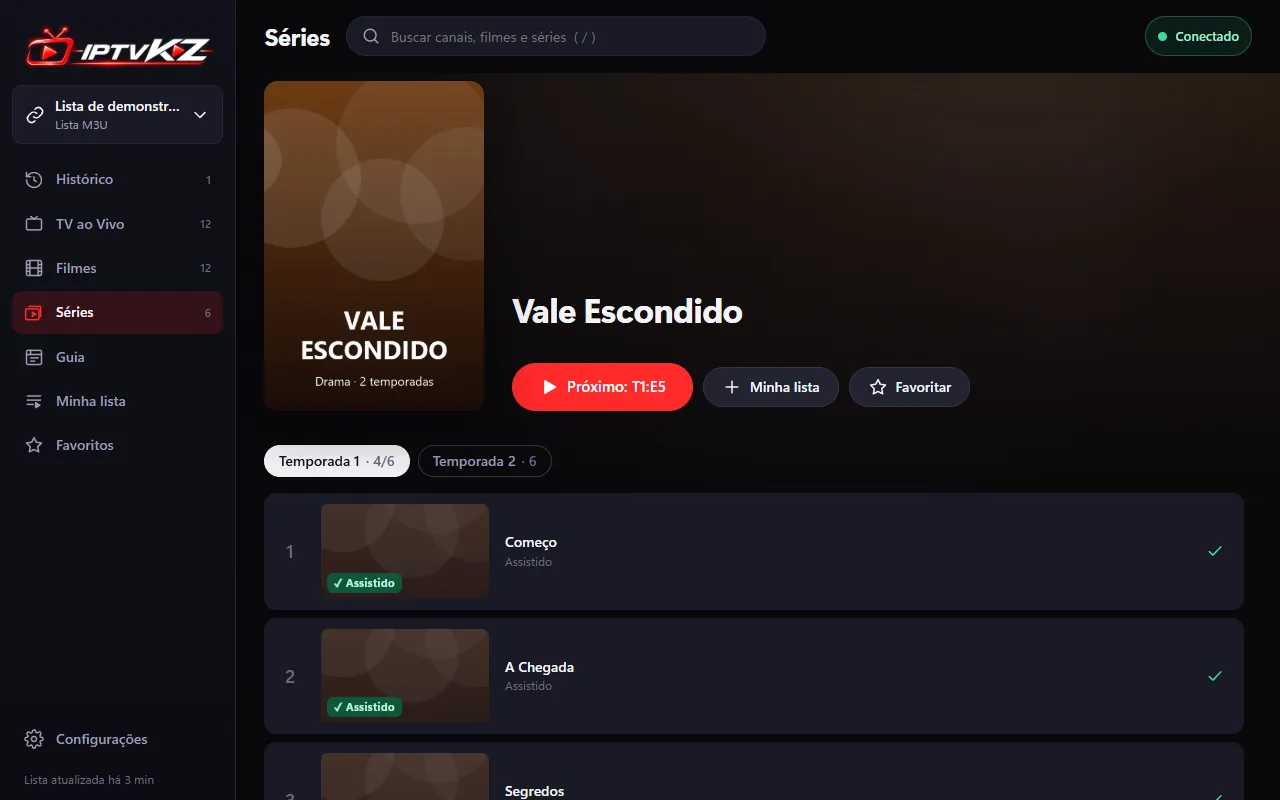
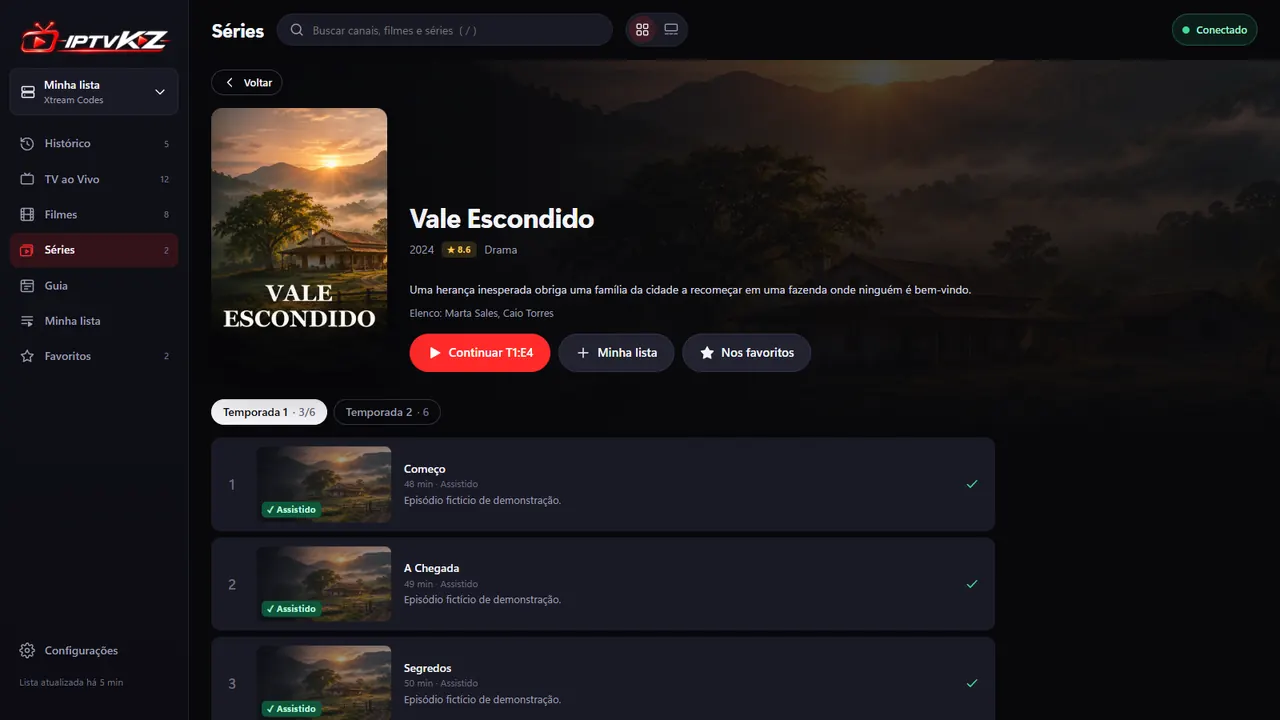
README: capturas novas com capas fictícias realistas
Imagem de destaque no topo e novas seções de QR Code e celular.

diff --git a/README.md b/README.md
@@ -26,6 +26,10 @@ Use suas listas M3U e Xtream Codes com TV ao vivo, guia de programação, filmes
   <a href="#rodar-pelo-código">Rodar pelo código</a>
 </p>
 
+<p align="center">
+  <img src="docs/screenshots/destaque-streaming.webp" alt="IPTVKZ na visualização Streaming, com um filme fictício em destaque e a fileira Continuar assistindo" />
+</p>
+
 ---
 
 > [!IMPORTANT]
@@ -33,22 +37,33 @@ Use suas listas M3U e Xtream Codes com TV ao vivo, guia de programação, filmes
 
 ## Capturas de tela
 
-As telas abaixo usam uma lista de demonstração com canais, filmes e séries fictícios.
+As telas abaixo são reais e usam uma lista de demonstração, com canais, filmes e séries fictícios. O app não vem com nenhum conteúdo.
+
+### Lista pelo QR Code
+
+Na TV, escaneie o código e preencha a lista no celular, sem digitar com o controle.
+
+<table>
+  <tr>
+    <td width="72%"><img src="docs/screenshots/tv-qr.webp" alt="TV mostrando a tela Adicionar lista com o QR Code" /><p align="center"><sub>A TV mostra o QR Code</sub></p></td>
+    <td><img src="docs/screenshots/celular-qr.webp" alt="Formulário no celular com o botão Enviar para a TV" /><p align="center"><sub>Você preenche no celular</sub></p></td>
+  </tr>
+</table>
 
 ### Computador
 
 <table>
   <tr>
-    <td width="50%"><img src="docs/screenshots/desktop-tv-ao-vivo.webp" alt="TV ao vivo com o player, o guia de agora e a seguir e a lista de canais" /><p align="center"><sub>TV ao vivo: player, agora/a seguir e lista para zapear</sub></p></td>
-    <td width="50%"><img src="docs/screenshots/desktop-filmes.webp" alt="Tela de filmes com Continuar assistindo e prateleiras por categoria" /><p align="center"><sub>Filmes: continuar assistindo e prateleiras</sub></p></td>
+    <td width="50%"><img src="docs/screenshots/desktop-streaming.webp" alt="Visualização Streaming com destaque grande e a fileira Continuar assistindo" /><p align="center"><sub>Visualização Streaming: destaque e fileiras</sub></p></td>
+    <td width="50%"><img src="docs/screenshots/desktop-classica.webp" alt="Visualização Clássica com a grade de filmes e categorias" /><p align="center"><sub>Visualização Clássica: grade e categorias</sub></p></td>
   </tr>
   <tr>
+    <td><img src="docs/screenshots/desktop-tv-ao-vivo.webp" alt="TV ao vivo com o player, o guia de agora e a seguir e a lista de canais" /><p align="center"><sub>TV ao vivo: player, agora/a seguir e lista para zapear</sub></p></td>
     <td><img src="docs/screenshots/desktop-serie.webp" alt="Página de uma série com temporadas e episódios assistidos" /><p align="center"><sub>Séries: temporadas, episódios e próximo episódio</sub></p></td>
-    <td><img src="docs/screenshots/desktop-player.webp" alt="Player de vídeo com barra de progresso e controles" /><p align="center"><sub>Player com áudio, legendas e PiP</sub></p></td>
   </tr>
   <tr>
-    <td><img src="docs/screenshots/desktop-busca.webp" alt="Busca mostrando canais, filmes e séries" /><p align="center"><sub>Busca em canais, filmes e séries</sub></p></td>
     <td><img src="docs/screenshots/desktop-guia.webp" alt="Guia de programação em grade de horários" /><p align="center"><sub>Guia de programação (EPG)</sub></p></td>
+    <td><img src="docs/screenshots/desktop-busca.webp" alt="Busca em canais, filmes e séries" /><p align="center"><sub>Busca em canais, filmes e séries</sub></p></td>
   </tr>
   <tr>
     <td><img src="docs/screenshots/desktop-adicionar-lista.webp" alt="Janela Adicionar lista com abas Xtream Codes, Link M3U e Arquivo M3U" /><p align="center"><sub>Adicionar lista: Xtream, link ou arquivo M3U</sub></p></td>
@@ -62,12 +77,30 @@ Letras maiores e navegação pelas setas, OK e Voltar do controle remoto.
 
 <table>
   <tr>
-    <td width="50%"><img src="docs/screenshots/tv-canais.webp" alt="Modo TV: lista de canais com o foco do controle remoto" /><p align="center"><sub>Canais com o foco do controle</sub></p></td>
-    <td width="50%"><img src="docs/screenshots/tv-zapping.webp" alt="Modo TV: vídeo em tela cheia com a lista de canais aberta ao lado" /><p align="center"><sub>Tela cheia com a lista para zapear (◀)</sub></p></td>
+    <td width="50%"><img src="docs/screenshots/tv-streaming.webp" alt="Modo TV: visualização Streaming com um filme em destaque" /><p align="center"><sub>Streaming com o foco do controle</sub></p></td>
+    <td width="50%"><img src="docs/screenshots/tv-classica.webp" alt="Modo TV: grade de filmes com capas" /><p align="center"><sub>Grade de filmes</sub></p></td>
   </tr>
   <tr>
-    <td><img src="docs/screenshots/tv-filmes.webp" alt="Modo TV: grade de filmes" /><p align="center"><sub>Filmes</sub></p></td>
-    <td><img src="docs/screenshots/tv-busca.webp" alt="Modo TV: resultados da busca" /><p align="center"><sub>Busca</sub></p></td>
+    <td><img src="docs/screenshots/tv-canais.webp" alt="Modo TV: lista de canais com o foco do controle remoto" /><p align="center"><sub>Canais com o programa de agora</sub></p></td>
+    <td><img src="docs/screenshots/tv-zapping.webp" alt="Modo TV: vídeo em tela cheia com a lista de canais aberta ao lado" /><p align="center"><sub>Tela cheia com a lista para zapear (◀)</sub></p></td>
+  </tr>
+  <tr>
+    <td><img src="docs/screenshots/tv-player.webp" alt="Modo TV: player de vídeo com barra de progresso" /><p align="center"><sub>Player em tela cheia</sub></p></td>
+    <td><img src="docs/screenshots/tv-serie.webp" alt="Modo TV: página de uma série com episódios" /><p align="center"><sub>Séries e episódios</sub></p></td>
+  </tr>
+  <tr>
+    <td><img src="docs/screenshots/tv-historico.webp" alt="Modo TV: histórico com títulos em andamento e assistidos" /><p align="center"><sub>Histórico: em andamento e assistidos</sub></p></td>
+    <td><img src="docs/screenshots/tv-guia.webp" alt="Modo TV: guia de programação em grade" /><p align="center"><sub>Guia de programação</sub></p></td>
+  </tr>
+</table>
+
+### Celular
+
+<table>
+  <tr>
+    <td width="56%"><img src="docs/screenshots/celular-classica.webp" alt="App no celular com a tela deitada, na grade de filmes" /><p align="center"><sub>Com a tela deitada</sub></p></td>
+    <td width="22%"><img src="docs/screenshots/celular-streaming.webp" alt="Visualização Streaming no celular em pé" /><p align="center"><sub>Streaming em pé, pelo navegador</sub></p></td>
+    <td width="22%"><img src="docs/screenshots/celular-serie.webp" alt="Página de uma série no celular em pé" /><p align="center"><sub>Séries em pé, pelo navegador</sub></p></td>
   </tr>
 </table>
 
